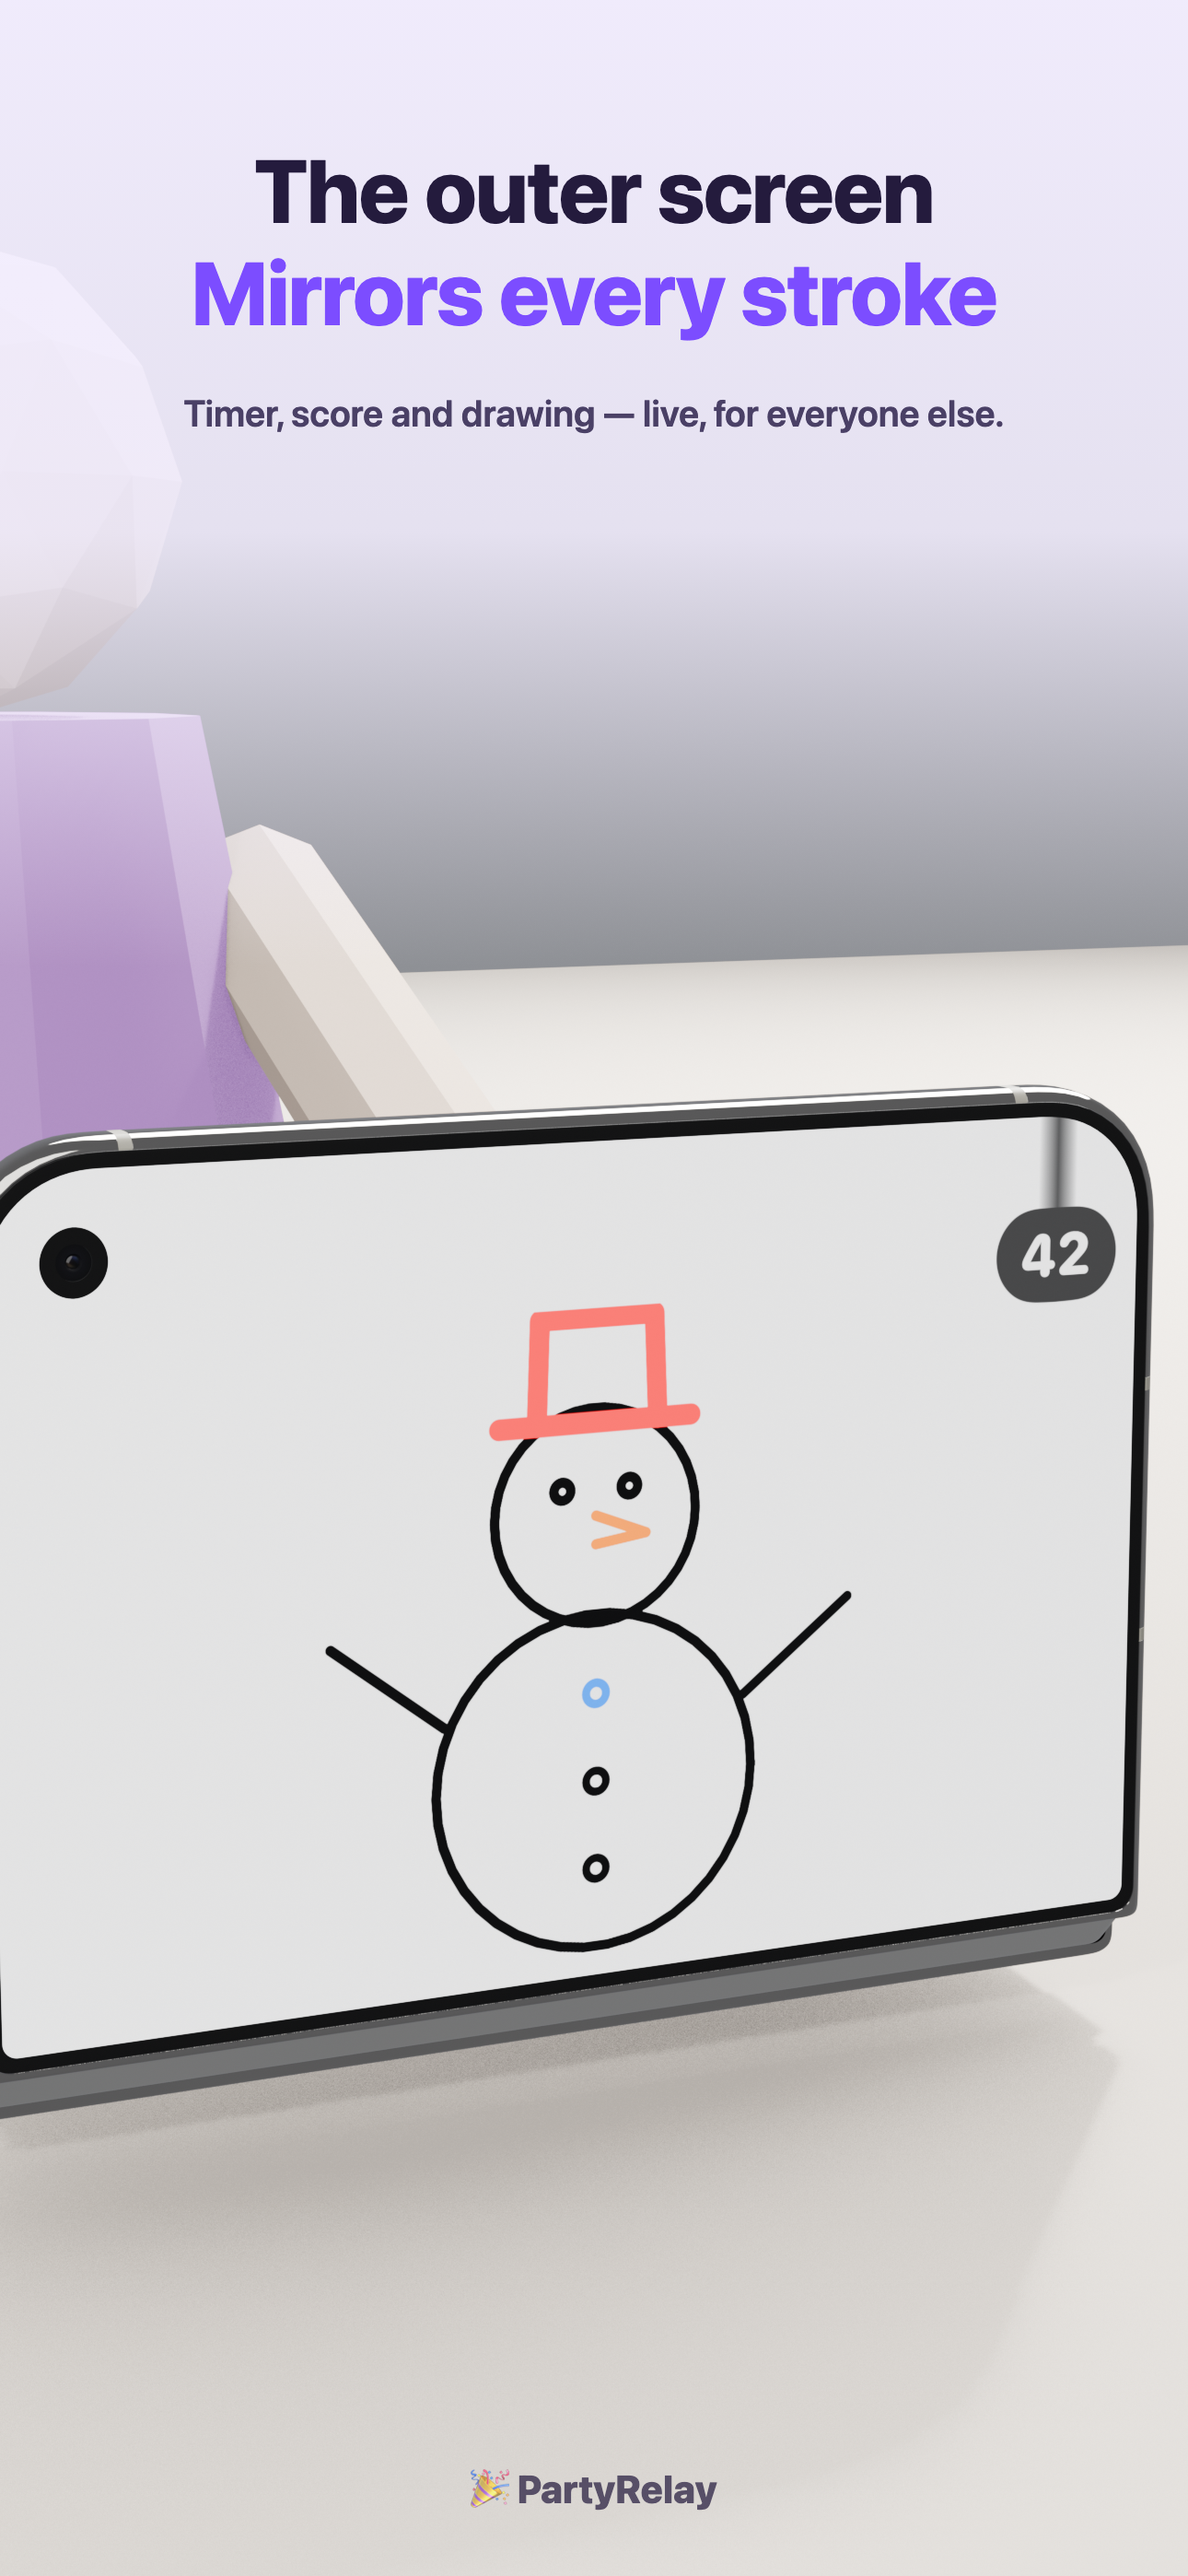
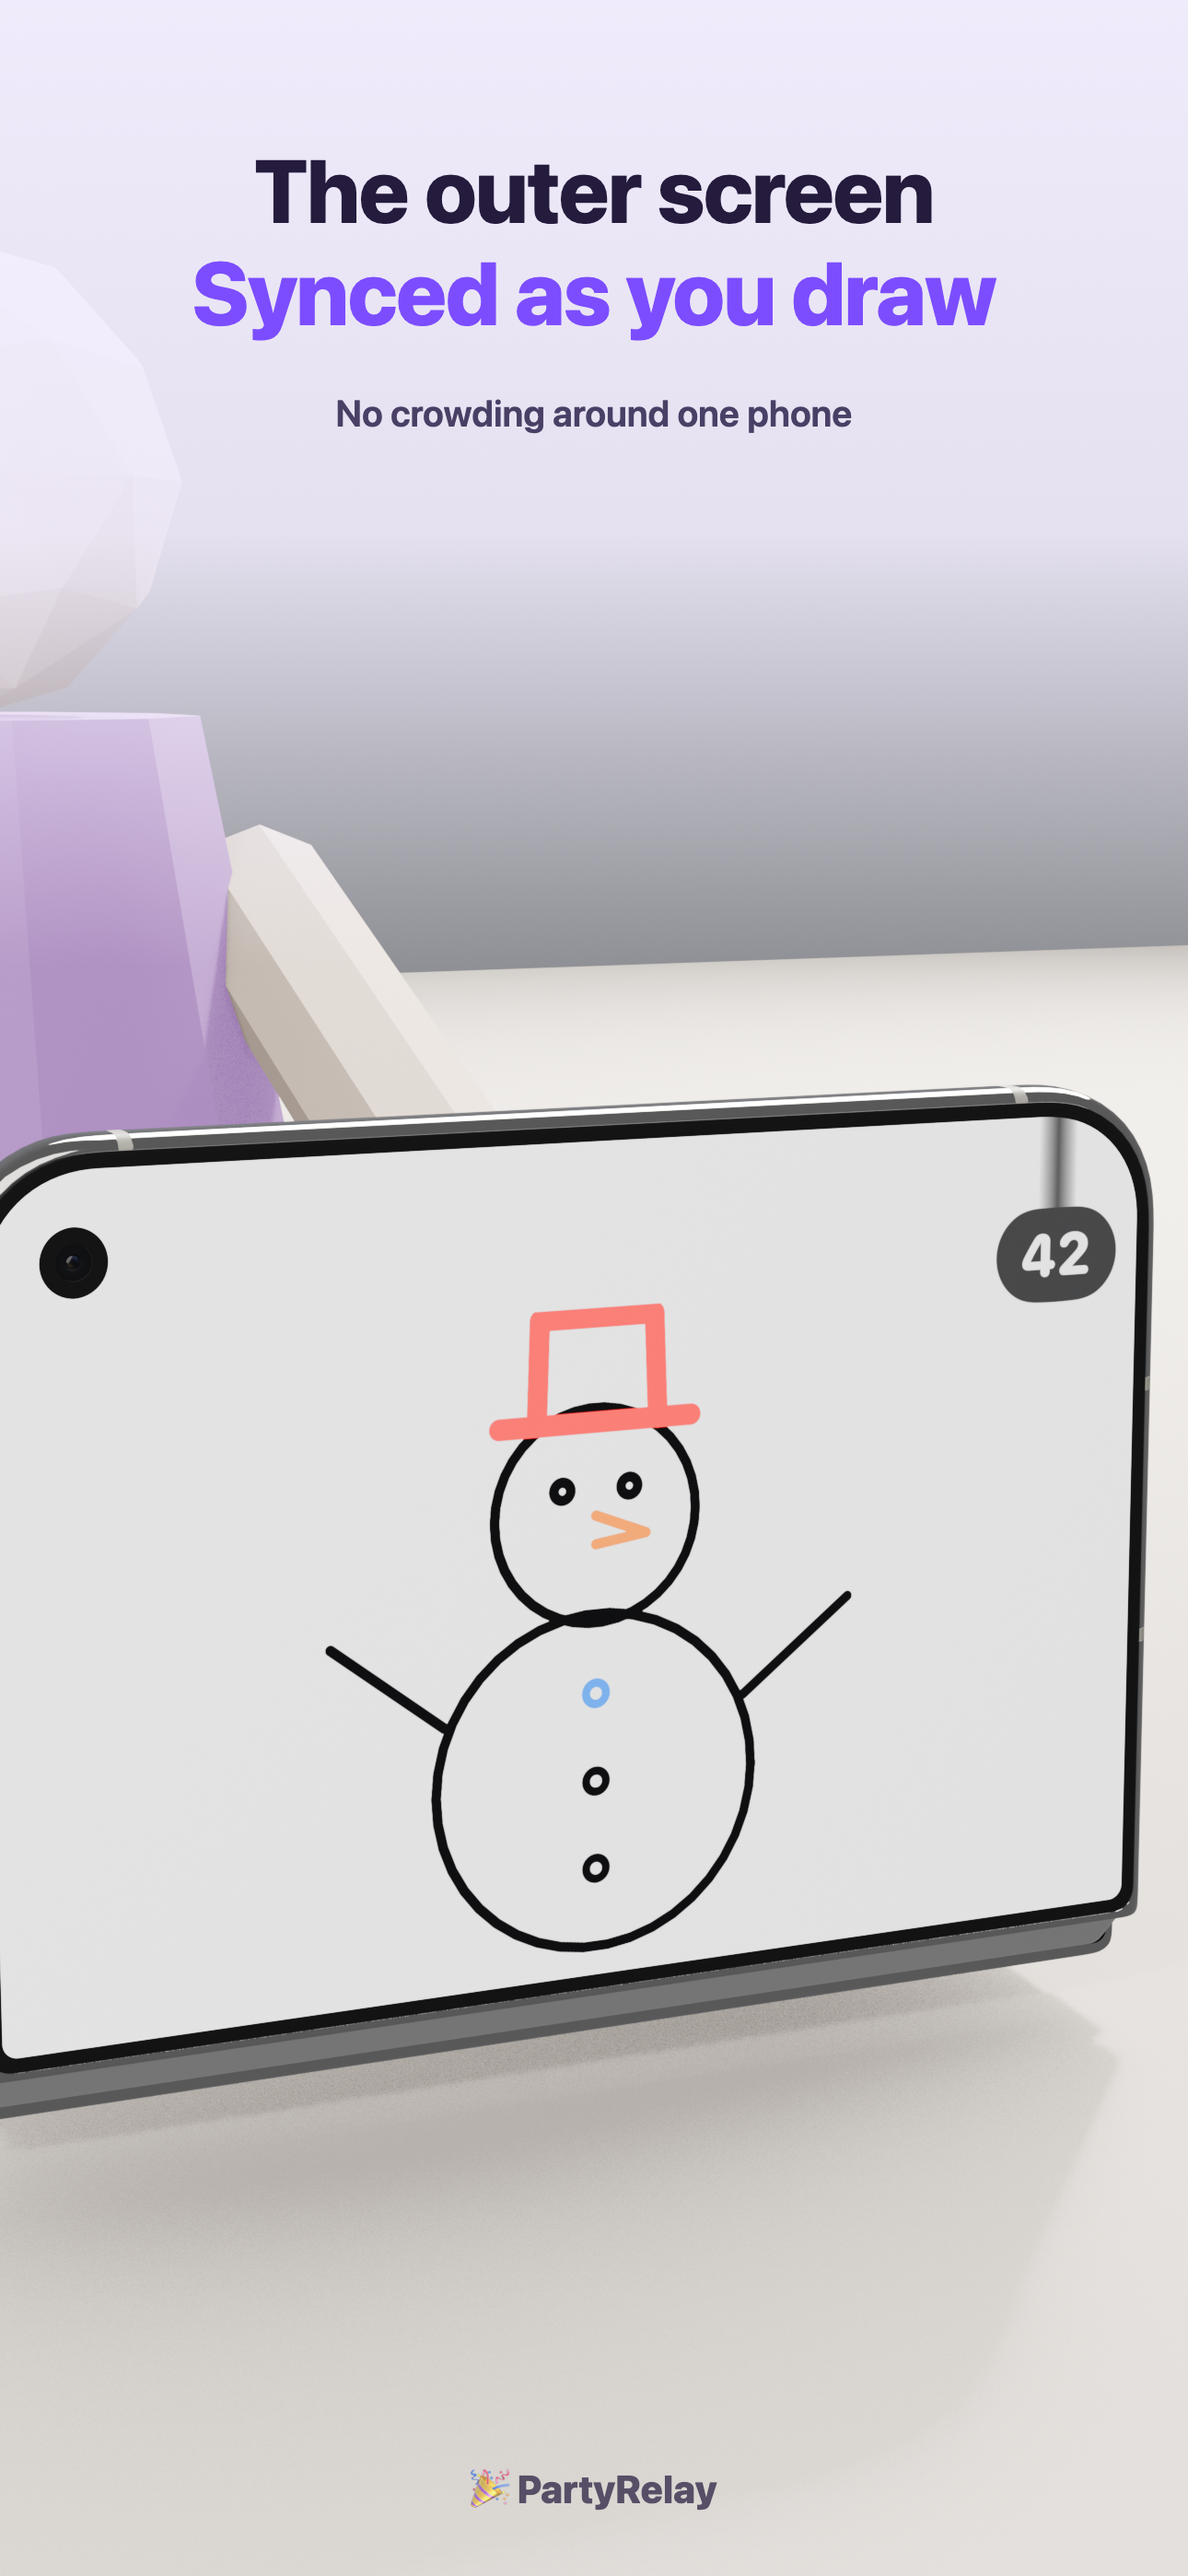
商店截图文案：第二张也收到同一个口径
原来是「对面那块屏 / 实时同步整张画 / 计时、得分、笔画，猜的人全看得见」——
和第一张改后的小字意思重叠，而且堆了三样东西。
改成「外屏朝着对面 / 画到哪同步到哪」，小字落在真正的好处上：
不用再挤到一块儿看。

Changed region(s): [[0.155, 0.0933, 0.8372, 0.1867]]

diff --git a/AppStoreConnect/scripts/fold_promo.py b/AppStoreConnect/scripts/fold_promo.py
@@ -23,15 +23,15 @@ SLIDES = {
     "zh-Hans": [
         ("store-fold.png",  "一台手机",        "两边展示",
          "实时信息，更容易看到"),
-        ("store-cover.png", "对面那块屏",       "实时同步整张画",
-         "计时、得分、笔画，猜的人全看得见"),
+        ("store-cover.png", "外屏朝着对面",     "画到哪同步到哪",
+         "不用再挤到一块儿看"),
     ],
     # 英文那两张底图是用英文界面的贴图单独渲的（scene.py --tex tex-en）
     "en": [
         ("en-store-fold.png",  "One phone",        "Both sides at once",
          "Live info, easier to see"),
-        ("en-store-cover.png", "The outer screen", "Mirrors every stroke",
-         "Timer, score and drawing — live, for everyone else."),
+        ("en-store-cover.png", "The outer screen", "Synced as you draw",
+         "No crowding around one phone"),
     ],
 }
 
